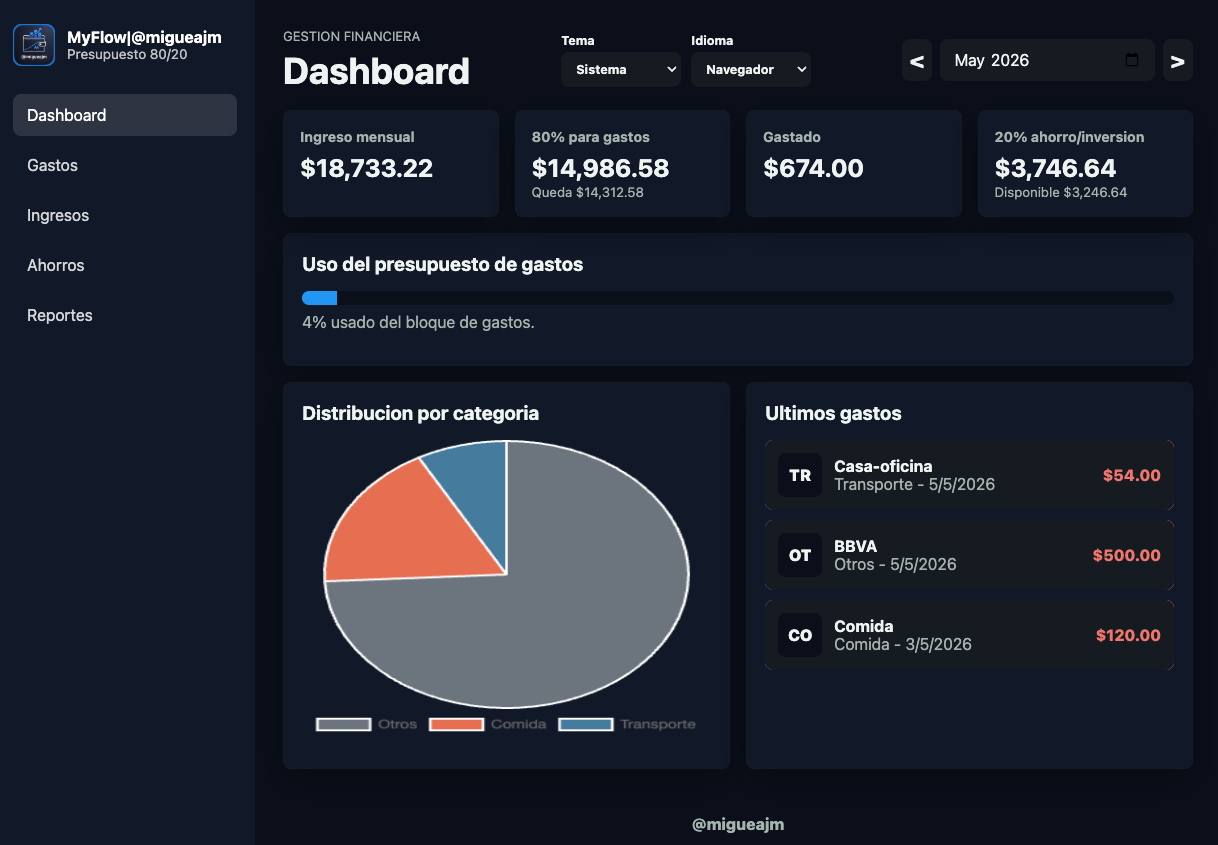
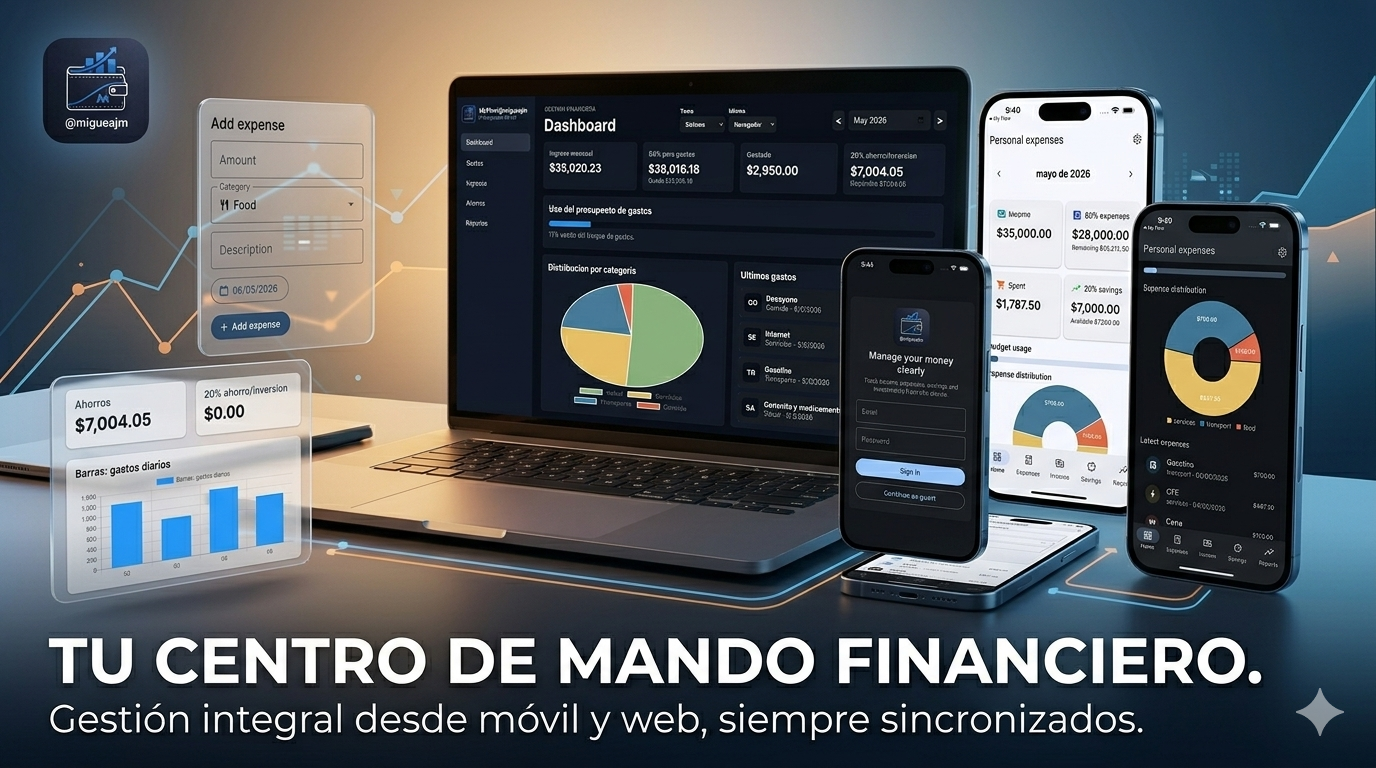
change: flow app added

diff --git a/es/index.html b/es/index.html
@@ -82,6 +82,25 @@
           </div>
         </div>
       </article>
+      <article class="project-card">
+        <img src="../assets/images/projects/my-flow-app.png" alt="Screenshot de My Flow">
+        <div class="project-info">
+          <h3>My Flow App</h3>
+          <p>
+            App móvil para gestionar gastos personales, visualizar balances y guardar datos localmente.
+          </p>
+          <div class="project-tags">
+            <span>Flutter</span>
+            <span>Dart</span>
+            <span>SQLite</span>
+            <span>Chart.js</span>
+          </div>
+          <div class="project-actions">
+            <a href="https://github.com/migueajm/my-flow-app/releases/tag/v1.0.0" target="_blank">Ver demo</a>
+            <a href="https://github.com/migueajm/my-flow-app" target="_blank">Ver código</a>
+          </div>
+        </div>
+      </article>
     </section>
     <section id="experience">
       <h3>Experiencia profesional</h3>

diff --git a/en/index.html b/en/index.html
@@ -81,6 +81,24 @@
           </div>
         </div>
       </article>
+      <article class="project-card">
+        <img src="../assets/images/projects/my-flow-app.png" alt="Screenshot de My Flow">
+        <div class="project-info">
+          <h3>My Flow App</h3>
+          <p>
+            Mobile App for managing personal expenses, visualizing balances, and storing data locally.
+          </p>
+          <div class="project-tags">
+            <span>Flutter</span>
+            <span>Dart</span>
+            <span>SQLite</span>
+          </div>
+          <div class="project-actions">
+            <a href="https://github.com/migueajm/my-flow-app/releases/tag/v1.0.0" target="_blank">View demo</a>
+            <a href="https://github.com/migueajm/my-flow-app" target="_blank">View code</a>
+          </div>
+        </div>
+      </article>
     </section>
     <section id="experience">
       <h3>Professional Experience</h3>